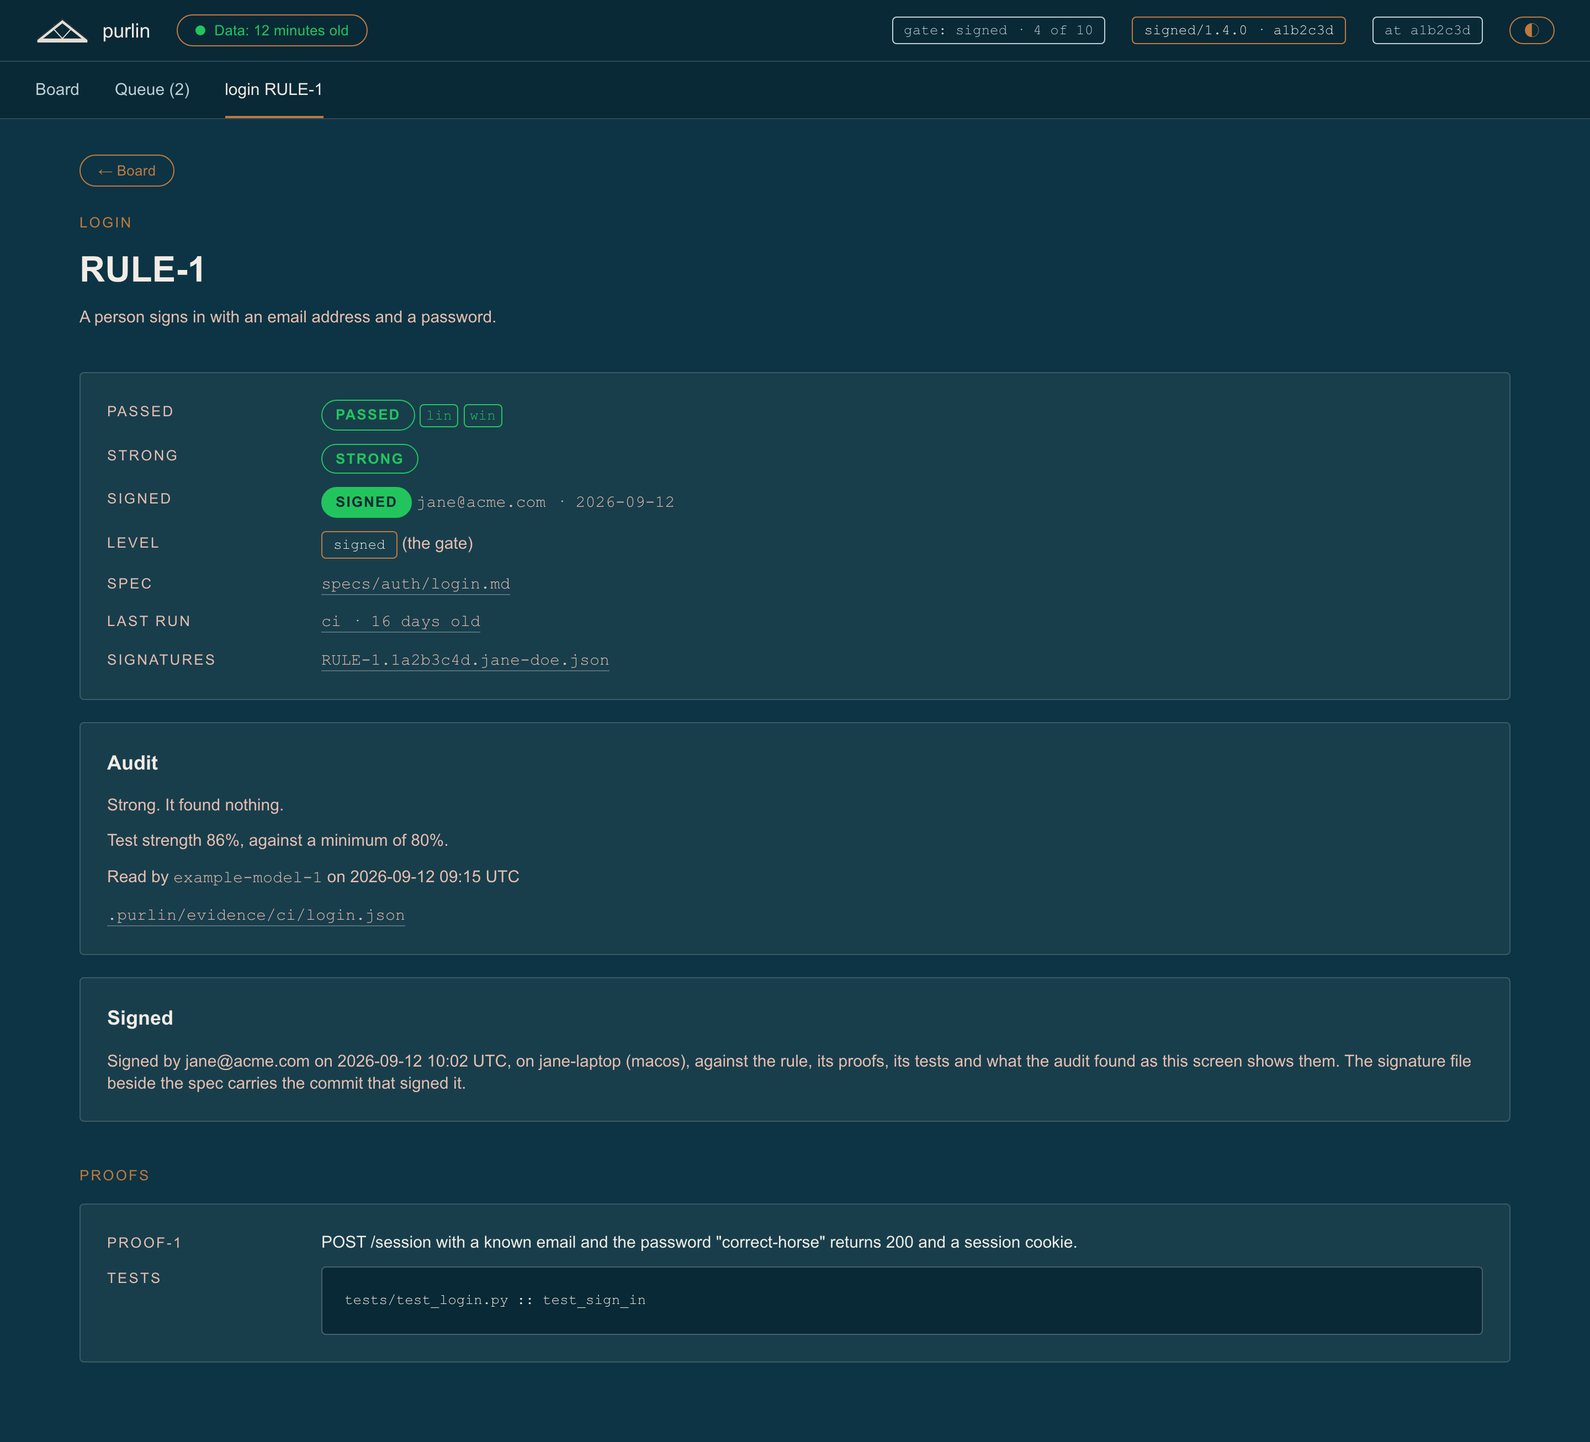
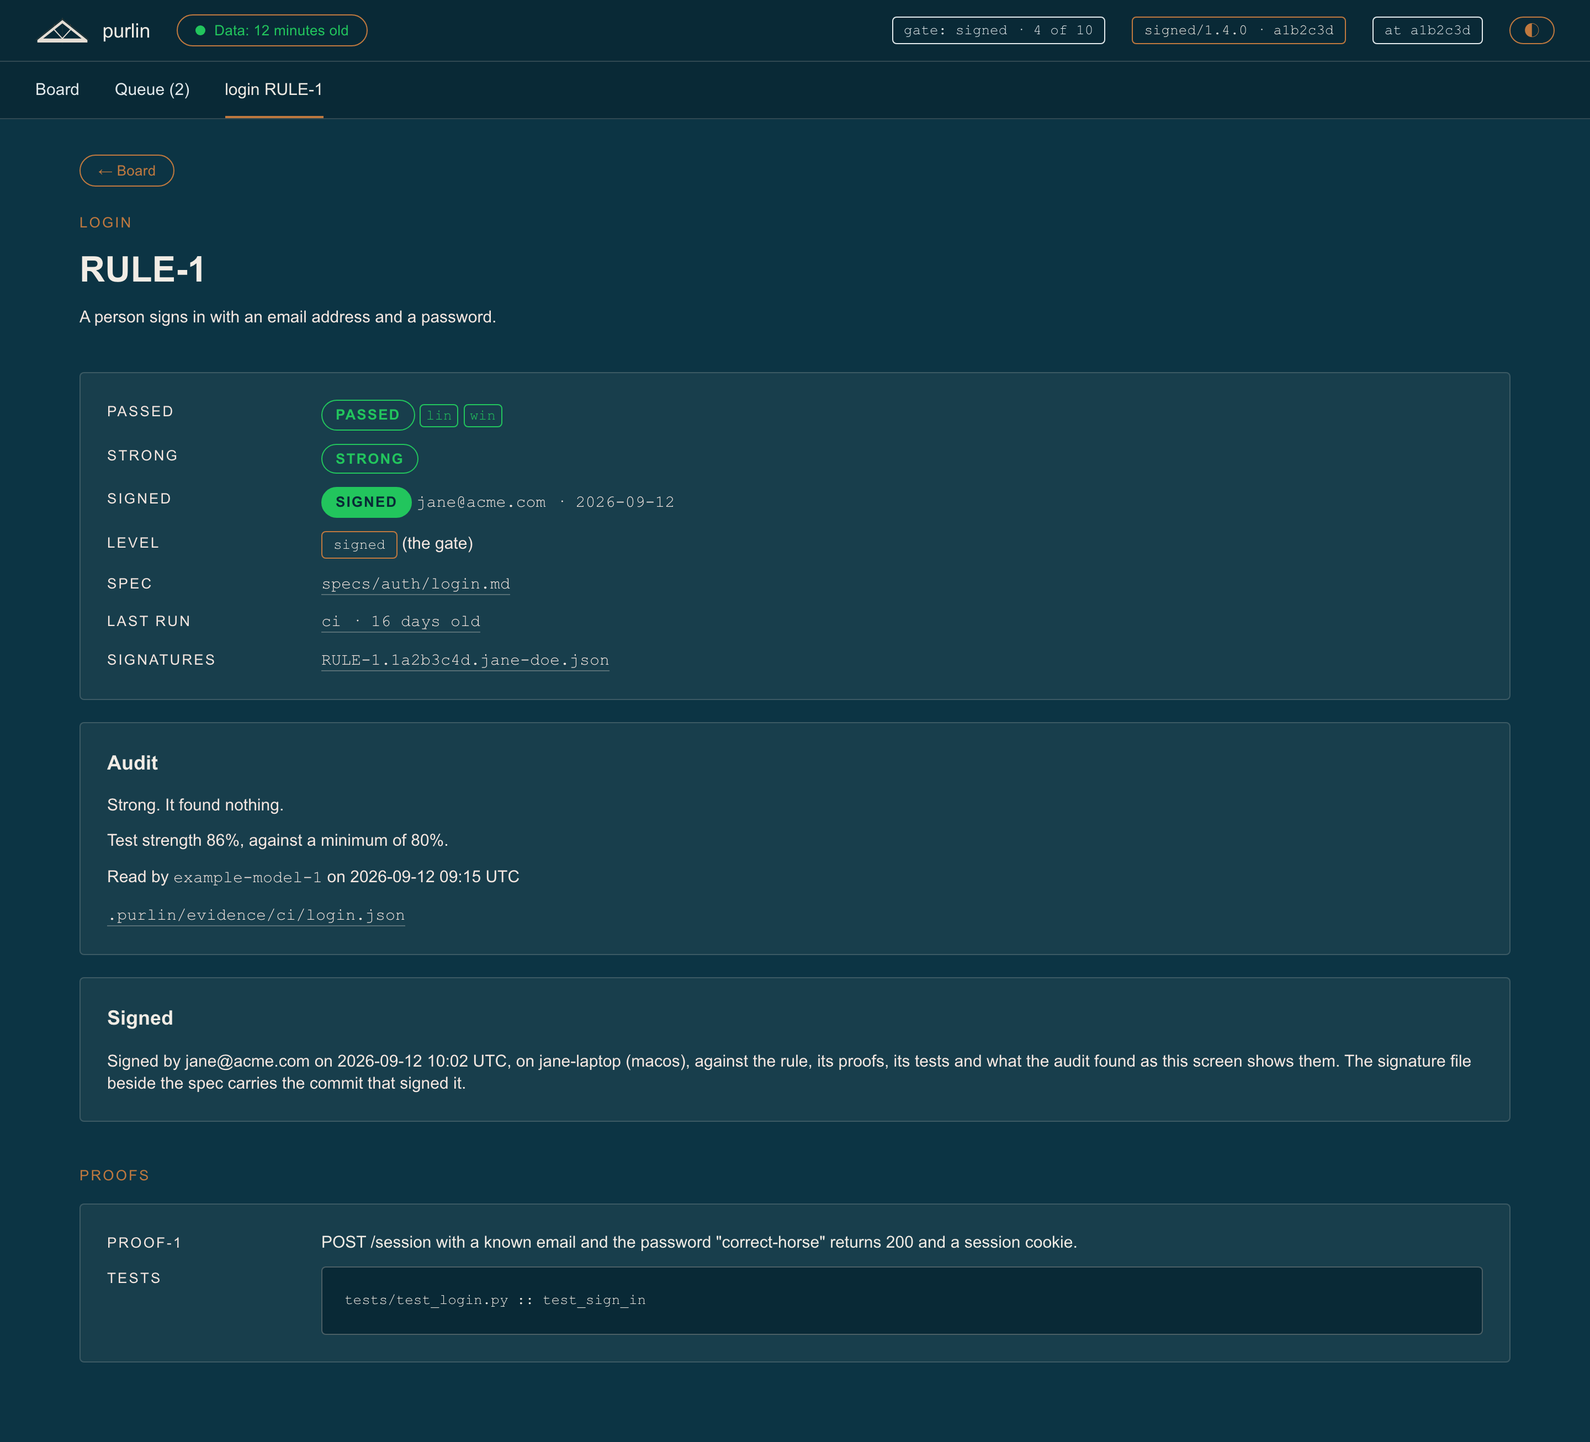
fix(design): neutral text measures 7:1 on every ground, in both themes
Dark: secondary blush-200 to blush-100 #F6E8E2, muted slate-200 to
slate-100 #E2E9EC, idle slate-400 to #E1E5EB, the link with the secondary
ink, the product ramp's muted slate-400 to #BBC4D2. Light: muted and idle
ink-500 (and the product ramp's ink-600) to ink-650 #3B4F56. A page test
reads every neutral text and its composited ground in both themes and
asserts 7:1. The design readme states the floor. Screenshots retaken.

Claude-Session: https://claude.ai/code/session_01EY16JPT1BcH9yMJU9cYMBw

Changed region(s): [[0.0625, 0.5582, 0.1875, 0.5892]]

diff --git a/scripts/report/purlin-report.html b/scripts/report/purlin-report.html
@@ -5,9 +5,9 @@
 <meta name="viewport" content="width=device-width, initial-scale=1">
 <title>Purlin board</title>
 <style id="purlin-tokens">
-:root{--purlin-navy-900:#092936;--purlin-navy-800:#0C3444;--purlin-cream-100:#E4DDD4;--purlin-blush-200:#E6BEB0;--purlin-copper-500:#C0793F;--purlin-slate-300:#93AEB8;--purlin-slate-200:#BFCED5;--purlin-cream-050:#F1ECE5;--slate-950:#0F172A;--slate-900:#172034;--slate-800:#1E293C;--slate-750:#263350;--slate-700:#334155;--slate-500:#64738B;--slate-400:#94A2B8;--slate-300:#CBD5E1;--slate-200:#E2E8F0;--white:#FFFFFF;--green-500:#22C55D;--green-600:#269655;--green-300:#3AC968;--green-100:#C6EDCF;--amber-500:#F59E0C;--red-500:#EF4444;--teal-400:#2DD4BF;--green-700:#15803D;--amber-700:#B45309;--red-700:#B91C1C;--teal-700:#0F766E;--copper-700:#8F5626;--purlin-paper-050:#FBF8EC;--purlin-paper-100:#F4EFDF;--purlin-paper-200:#E4DDD4;--purlin-paper-300:#D3C9BC;--purlin-ink-700:#1B4A5C;--purlin-ink-600:#345865;--purlin-ink-500:#4D676F;}
-:root{--color-scheme:dark;--canvas:var(--purlin-navy-800);--canvas-deep:var(--purlin-navy-900);--surface-1:rgba(228,221,212,.06);--surface-2:rgba(228,221,212,.10);--surface-sunken:var(--purlin-navy-900);--surface-veil:rgba(228,221,212,.30);--text-primary:var(--purlin-cream-050);--text-secondary:var(--purlin-blush-200);--text-muted:var(--purlin-slate-200);--text-accent:var(--purlin-copper-500);--text-inverse:var(--purlin-navy-900);--border-hairline:rgba(228,221,212,.18);--border-default:rgba(228,221,212,.30);--border-strong:rgba(228,221,212,.45);--border-accent:var(--purlin-copper-500);--accent:var(--purlin-copper-500);--accent-contrast:var(--purlin-navy-900);--state-pass:var(--green-500);--state-pass-soft:rgba(34,197,93,.14);--state-warn:var(--amber-500);--state-warn-soft:rgba(245,158,12,.14);--state-fail:var(--red-500);--state-fail-soft:rgba(239,68,68,.14);--state-neutral:var(--teal-400);--state-neutral-soft:rgba(45,212,191,.14);--state-idle:var(--slate-400);--focus-ring:var(--purlin-blush-200);--link:var(--purlin-blush-200);--link-hover:var(--purlin-copper-500);}
-[data-theme="light"]{--color-scheme:light;--canvas:var(--purlin-paper-050);--canvas-deep:var(--purlin-paper-100);--surface-1:var(--white);--surface-2:var(--purlin-paper-100);--surface-sunken:var(--purlin-paper-200);--surface-veil:rgba(12,52,68,.05);--text-primary:var(--purlin-navy-800);--text-secondary:var(--purlin-ink-700);--text-muted:var(--purlin-ink-500);--text-accent:var(--copper-700);--text-inverse:var(--purlin-paper-050);--border-hairline:rgba(12,52,68,.12);--border-default:rgba(12,52,68,.20);--border-strong:rgba(12,52,68,.38);--border-accent:var(--copper-700);--accent:var(--copper-700);--accent-contrast:var(--purlin-paper-050);--state-pass:var(--green-700);--state-pass-soft:rgba(21,128,61,.12);--state-warn:var(--amber-700);--state-warn-soft:rgba(180,83,9,.12);--state-fail:var(--red-700);--state-fail-soft:rgba(185,28,28,.12);--state-neutral:var(--teal-700);--state-neutral-soft:rgba(15,118,110,.12);--state-idle:var(--purlin-ink-500);--focus-ring:var(--copper-700);--link:var(--copper-700);--link-hover:var(--purlin-navy-800);}
+:root{--purlin-navy-900:#092936;--purlin-navy-800:#0C3444;--purlin-cream-100:#E4DDD4;--purlin-blush-200:#E6BEB0;--purlin-copper-500:#C0793F;--purlin-slate-300:#93AEB8;--purlin-slate-200:#BFCED5;--purlin-cream-050:#F1ECE5;--purlin-blush-100:#F6E8E2;--purlin-slate-100:#E2E9EC;--slate-950:#0F172A;--slate-900:#172034;--slate-800:#1E293C;--slate-750:#263350;--slate-700:#334155;--slate-500:#64738B;--slate-400:#94A2B8;--slate-350:#BBC4D2;--slate-300:#CBD5E1;--slate-200:#E2E8F0;--slate-100:#E1E5EB;--white:#FFFFFF;--green-500:#22C55D;--green-600:#269655;--green-300:#3AC968;--green-100:#C6EDCF;--amber-500:#F59E0C;--red-500:#EF4444;--teal-400:#2DD4BF;--green-700:#15803D;--amber-700:#B45309;--red-700:#B91C1C;--teal-700:#0F766E;--copper-700:#8F5626;--purlin-paper-050:#FBF8EC;--purlin-paper-100:#F4EFDF;--purlin-paper-200:#E4DDD4;--purlin-paper-300:#D3C9BC;--purlin-ink-700:#1B4A5C;--purlin-ink-600:#345865;--purlin-ink-500:#4D676F;--purlin-ink-650:#3B4F56;}
+:root{--color-scheme:dark;--canvas:var(--purlin-navy-800);--canvas-deep:var(--purlin-navy-900);--surface-1:rgba(228,221,212,.06);--surface-2:rgba(228,221,212,.10);--surface-sunken:var(--purlin-navy-900);--surface-veil:rgba(228,221,212,.30);--text-primary:var(--purlin-cream-050);--text-secondary:var(--purlin-blush-100);--text-muted:var(--purlin-slate-100);--text-accent:var(--purlin-copper-500);--text-inverse:var(--purlin-navy-900);--border-hairline:rgba(228,221,212,.18);--border-default:rgba(228,221,212,.30);--border-strong:rgba(228,221,212,.45);--border-accent:var(--purlin-copper-500);--accent:var(--purlin-copper-500);--accent-contrast:var(--purlin-navy-900);--state-pass:var(--green-500);--state-pass-soft:rgba(34,197,93,.14);--state-warn:var(--amber-500);--state-warn-soft:rgba(245,158,12,.14);--state-fail:var(--red-500);--state-fail-soft:rgba(239,68,68,.14);--state-neutral:var(--teal-400);--state-neutral-soft:rgba(45,212,191,.14);--state-idle:var(--slate-100);--focus-ring:var(--purlin-blush-200);--link:var(--purlin-blush-100);--link-hover:var(--purlin-copper-500);}
+[data-theme="light"]{--color-scheme:light;--canvas:var(--purlin-paper-050);--canvas-deep:var(--purlin-paper-100);--surface-1:var(--white);--surface-2:var(--purlin-paper-100);--surface-sunken:var(--purlin-paper-200);--surface-veil:rgba(12,52,68,.05);--text-primary:var(--purlin-navy-800);--text-secondary:var(--purlin-ink-700);--text-muted:var(--purlin-ink-650);--text-accent:var(--copper-700);--text-inverse:var(--purlin-paper-050);--border-hairline:rgba(12,52,68,.12);--border-default:rgba(12,52,68,.20);--border-strong:rgba(12,52,68,.38);--border-accent:var(--copper-700);--accent:var(--copper-700);--accent-contrast:var(--purlin-paper-050);--state-pass:var(--green-700);--state-pass-soft:rgba(21,128,61,.12);--state-warn:var(--amber-700);--state-warn-soft:rgba(180,83,9,.12);--state-fail:var(--red-700);--state-fail-soft:rgba(185,28,28,.12);--state-neutral:var(--teal-700);--state-neutral-soft:rgba(15,118,110,.12);--state-idle:var(--purlin-ink-650);--focus-ring:var(--copper-700);--link:var(--copper-700);--link-hover:var(--purlin-navy-800);}
 :root{--font-sans:Arial,"Helvetica Neue",Helvetica,sans-serif;--font-mono:"Courier New",Courier,monospace;--type-hero:180px;--type-display:98px;--type-title:48px;--type-subtitle:33px;--type-lead:30px;--type-body-lg:22.5px;--type-body:20.25px;--type-body-sm:18px;--type-caption:15.75px;--type-micro:15px;--ui-metric-xl:44px;--ui-metric:32px;--ui-lg:18px;--ui-base:15px;--ui-sm:13px;--ui-xs:11px;--leading-tight:.8;--leading-snug:1.12;--leading-normal:1.35;--leading-relaxed:1.5;--tracking-hero:-.006em;--tracking-normal:0;--tracking-wide:.055em;--tracking-label:.12em;--weight-regular:400;--weight-bold:700;}
 :root{--space-0:0;--space-1:4px;--space-2:8px;--space-3:12px;--space-4:16px;--space-5:20px;--space-6:24px;--space-8:32px;--space-10:40px;--space-12:48px;--space-16:64px;--space-20:80px;--space-24:96px;--slide-w:1920px;--slide-h:1080px;--slide-margin-x:200px;--slide-title-y:230px;--slide-content-w:1672px;--slide-rule-w:1520px;--slide-row-h:105px;--app-bar-h:92px;--app-gutter:12px;--row-h:76px;}
 :root{--radius-none:0;--radius-sm:4px;--radius-md:6px;--radius-pill:999px;--border-width-hairline:1px;--border-width-default:1.5px;--border-width-strong:2px;}

diff --git a/design/tokens/palette.css b/design/tokens/palette.css
@@ -9,6 +9,8 @@
   --purlin-slate-300:#93AEB8;  /* muted mono, list numerals */
   --purlin-slate-200:#BFCED5;  /* muted text on navy, one step brighter for reading */
   --purlin-cream-050:#F1ECE5;  /* primary ink on navy, one step brighter than the logo cream */
+  --purlin-blush-100:#F6E8E2;  /* secondary ink on navy, 7:1 on the lightest band */
+  --purlin-slate-100:#E2E9EC;  /* muted ink on navy, 7:1 on the lightest band */
 
   /* --- Product / dashboard: cool slate --------------------------- */
   --slate-950:#0F172A;
@@ -18,8 +20,10 @@
   --slate-700:#334155;
   --slate-500:#64738B;
   --slate-400:#94A2B8;
+  --slate-350:#BBC4D2;  /* muted ink on the product ramp, 7:1 on slate-750 */
   --slate-300:#CBD5E1;  /* secondary ink on the product ramp */
   --slate-200:#E2E8F0;
+  --slate-100:#E1E5EB;  /* idle ink on navy, 7:1 on the lightest band */
   --white:#FFFFFF;
 
   /* --- State hues (dashboard) ------------------------------------ */
@@ -46,4 +50,5 @@
   --purlin-ink-700:#1B4A5C;
   --purlin-ink-600:#345865;  /* muted ink on paper, one step darker than 500 */
   --purlin-ink-500:#4D676F;  /* navy under the 30% cream veil */
+  --purlin-ink-650:#3B4F56;  /* muted and idle ink on paper, 7:1 on paper-100 */
 }

diff --git a/design/tokens/theme-dark.css b/design/tokens/theme-dark.css
@@ -10,8 +10,8 @@
   --surface-veil:rgba(228,221,212,.30);   /* the deck's full-bleed cream veil */
 
   --text-primary:var(--purlin-cream-050);
-  --text-secondary:var(--purlin-blush-200);
-  --text-muted:var(--purlin-slate-200);
+  --text-secondary:var(--purlin-blush-100);
+  --text-muted:var(--purlin-slate-100);
   --text-accent:var(--purlin-copper-500);
   --text-inverse:var(--purlin-navy-900);
 
@@ -31,10 +31,10 @@
   --state-fail-soft:rgba(239,68,68,.14);
   --state-neutral:var(--teal-400);
   --state-neutral-soft:rgba(45,212,191,.14);
-  --state-idle:var(--slate-400);
+  --state-idle:var(--slate-100);
 
   --focus-ring:var(--purlin-blush-200);
-  --link:var(--purlin-blush-200);
+  --link:var(--purlin-blush-100);
   --link-hover:var(--purlin-copper-500);
 }
 
@@ -47,7 +47,7 @@
   --surface-sunken:var(--slate-900);
   --text-primary:var(--slate-200);
   --text-secondary:var(--slate-300);
-  --text-muted:var(--slate-400);
+  --text-muted:var(--slate-350);
   --border-hairline:var(--slate-700);
   --border-default:var(--slate-700);
   --border-strong:var(--slate-500);

diff --git a/design/tokens/theme-light.css b/design/tokens/theme-light.css
@@ -12,7 +12,7 @@
 
   --text-primary:var(--purlin-navy-800);
   --text-secondary:var(--purlin-ink-700);
-  --text-muted:var(--purlin-ink-500);
+  --text-muted:var(--purlin-ink-650);
   --text-accent:var(--copper-700);
   --text-inverse:var(--purlin-paper-050);
 
@@ -32,7 +32,7 @@
   --state-fail-soft:rgba(185,28,28,.12);
   --state-neutral:var(--teal-700);
   --state-neutral-soft:rgba(15,118,110,.12);
-  --state-idle:var(--purlin-ink-500);
+  --state-idle:var(--purlin-ink-650);
 
   --focus-ring:var(--copper-700);
   --link:var(--copper-700);
@@ -47,7 +47,7 @@
   --surface-sunken:var(--purlin-paper-100);
   --text-primary:var(--purlin-navy-800);
   --text-secondary:var(--purlin-ink-700);
-  --text-muted:var(--purlin-ink-600);
+  --text-muted:var(--purlin-ink-650);
   --border-hairline:var(--purlin-paper-300);
   --border-default:var(--purlin-paper-300);
   --border-strong:var(--purlin-ink-500);

diff --git a/dev/test_purlin_report.py b/dev/test_purlin_report.py
@@ -1357,3 +1357,119 @@ def test_a_rule_with_no_proof_shows_the_tests_marked_with_its_id(
     found = sorted({match.group(0) for text in seen if text
                     for match in HIGHER_WORDS_NO_PROOFS.finditer(text)})
     assert found == [], found
+
+
+# Every element that draws a text node of its own, its colour, the ground under
+# it composited through each translucent background up to the page, and the
+# WCAG contrast ratio of the two. Text in one of the four state colours or the
+# accent, and text on a solid badge filled with a state colour, is left out:
+# its colour is its meaning.
+NEUTRAL_CONTRAST = """() => {
+  function parse(c) {
+    const m = c.match(/rgba?\\(([^)]+)\\)/); if (!m) { return null; }
+    const p = m[1].split(/[ ,\\/]+/).filter(Boolean).map(Number);
+    return [p[0], p[1], p[2], p.length > 3 ? p[3] : 1];
+  }
+  function over(top, under) {
+    return [0, 1, 2].map(i => top[i] * top[3] + under[i] * (1 - top[3]))
+      .concat([1]);
+  }
+  function lum(c) {
+    const f = v => { v /= 255; return v <= 0.03928 ? v / 12.92
+      : Math.pow((v + 0.055) / 1.055, 2.4); };
+    return 0.2126 * f(c[0]) + 0.7152 * f(c[1]) + 0.0722 * f(c[2]);
+  }
+  function ratio(a, b) {
+    const x = lum(a), y = lum(b);
+    return (Math.max(x, y) + 0.05) / (Math.min(x, y) + 0.05);
+  }
+  function ground(el) {
+    const layers = [];
+    for (let n = el; n && n.nodeType === 1; n = n.parentElement) {
+      const c = parse(getComputedStyle(n).backgroundColor);
+      if (c && c[3] > 0) { layers.push(c); if (c[3] >= 1) { break; } }
+    }
+    let base = [255, 255, 255, 1];
+    for (let i = layers.length - 1; i >= 0; i--) { base = over(layers[i], base); }
+    return base;
+  }
+  const root = getComputedStyle(document.documentElement);
+  const probe = document.createElement('span');
+  document.body.appendChild(probe);
+  const resolve = name => { probe.style.color = root.getPropertyValue(name).trim();
+    return getComputedStyle(probe).color; };
+  const states = new Set(['--state-pass', '--state-warn', '--state-fail',
+    '--state-neutral'].map(resolve));
+  const coloured = new Set([...states, resolve('--accent'),
+    resolve('--text-accent')]);
+  probe.remove();
+  const out = [];
+  const seen = new Set();
+  const walker = document.createTreeWalker(document.body, NodeFilter.SHOW_TEXT);
+  while (walker.nextNode()) {
+    const node = walker.currentNode;
+    if (!node.textContent.trim()) { continue; }
+    const el = node.parentElement;
+    if (seen.has(el)) { continue; }
+    seen.add(el);
+    const box = el.getBoundingClientRect();
+    const style = getComputedStyle(el);
+    if (!box.width || !box.height || style.visibility === 'hidden') { continue; }
+    if (coloured.has(style.color)) { continue; }
+    const under = ground(el);
+    const fill = 'rgb(' + under.slice(0, 3).map(Math.round).join(', ') + ')';
+    if (states.has(fill)) { continue; }
+    let ink = parse(style.color);
+    if (ink[3] < 1) { ink = over(ink, under); }
+    out.push([node.textContent.trim().slice(0, 40), style.color, fill,
+              ratio(ink, under)]);
+  }
+  return out;
+}"""
+
+
+def neutral_text(page):
+    """`[(text, colour, ground, ratio)]` for every neutral text on screen."""
+    return page.evaluate(NEUTRAL_CONTRAST)
+
+
+def open_in_theme(browser, tmp_path, payload, theme):
+    page = open_board(browser, tmp_path, payload)
+    page.evaluate("t => { localStorage.setItem('purlin-theme', t); }", theme)
+    page.reload()
+    page.wait_for_selector('.topbar', timeout=10000)
+    assert page.get_attribute('html', 'data-theme') == theme
+    return page
+
+
+# purlin: purlin_report PROOF-66
+def test_neutral_text_measures_7_to_1_in_both_themes(browser, tmp_path):
+    checked = 0
+    for process in PROCESSES:
+        payload = payload_named(process)
+        for theme in ('dark', 'light'):
+            for screen in ('board', 'queue', 'rule'):
+                page = open_in_theme(browser, tmp_path / process, payload,
+                                     theme)
+                if screen == 'queue':
+                    if page.query_selector('[data-screen="queue"]') is None:
+                        page.close()
+                        continue
+                    page.click('[data-screen="queue"]')
+                elif screen == 'rule':
+                    page.click('.tr')
+                    page.click('.rule')
+                    page.wait_for_selector('h1', timeout=10000)
+                found = neutral_text(page)
+                low = [item for item in found if item[3] < 7]
+                assert low == [], (process, theme, screen, low)
+                checked += len(found)
+                page.close()
+    assert checked > 100, checked
+
+    page = open_in_theme(browser, tmp_path / 'old', payload_named('team'),
+                         'dark')
+    page.evaluate("document.documentElement.style.setProperty("
+                  "'--state-idle', '#94A2B8')")
+    assert [item for item in neutral_text(page) if item[3] < 7]
+    page.close()

diff --git a/specs/dashboard/purlin_report.md b/specs/dashboard/purlin_report.md
@@ -57,6 +57,7 @@
 - RULE-42: Nothing writes the data file in the background: an edit to a spec or to code made with no Purlin command leaves the file's bytes and its modification time as they were, and a directory with no Purlin settings file gets no data file at all [level: passed]
 - RULE-43: A spec that names no files reads `<name> · no scope` on the board at every gate, and the hover on `no scope` gives the reason the payload carries [level: passed]
 - RULE-44: At the gate `passed` no text the page shows, in any tab, tile, column, filter, hover, empty state or rule screen, uses a word of a higher level: none of `strong`, `signed`, `audit`, `queue`, `signature`, `level` and `hand check` appears at any casing, nor `proof` where the project writes no proof line, and a rule shows its text, its tests and one status out of `passed`, `failed`, `partial`, `no test`, `not run` and `out of date` [level: passed]
+- RULE-45: In both themes, on the board, the queue and a rule screen, every text the page draws in a neutral colour, any colour but the four state colours and the accent, measures at least 7:1 by the WCAG contrast formula against the ground it sits on, read through every translucent layer beneath it; text on a solid badge filled with a state colour is the badge's and is not held to it [level: passed]
 
 ## Proof
 
@@ -119,3 +120,4 @@
 - PROOF-63 (RULE-44): Open the board with the solo fixture, whose gate is `passed`, once as it is and once with login `RULE-1` set in turn to `failed`, `partial`, `not run` and `out of date`; each time press every filter, open every spec and every rule, and switch the theme; verify that across every text on screen and every hover, 0 contain `strong`, `signed`, `audit`, `queue`, `signature`, `level` or `hand check` at any casing, and that every rule's status reads one of `passed`, `failed`, `partial`, `no test`, `not run` and `out of date`. Take every proof line out of the project, each test marked with its rule's own id, and do the same five times; verify the same, and that 0 contain `proof` either
 - PROOF-64 (RULE-15): Open the solo fixture and open login `RULE-3`, which has no proof; verify its passed row reads `NO TEST` with `no proof written` and its proofs read `No proof written.`. Open the regulated fixture and open export `RULE-1`, whose code changed after its run; verify its passed row reads `OUT OF DATE` with `code changed since 9f8e7d6`
 - PROOF-65 (RULE-44): In a new project at the gate `passed` with one rule, no proof line and one test marked with the rule's own id, run the tests and open the rule; verify the dashboard data lists that one test by its file and name with the result `pass`, the rule's screen lists it under Tests as `tests/test_lock.py :: test_five_wrong_passwords_lock PASSED`, and 0 texts on the screen contain `proof` or a word of a higher level. Make the test fail and do the same; verify the data reads `fail` and the screen `FAILED`
+- PROOF-66 (RULE-45): Open the solo, team and regulated fixtures in the dark theme and then the light theme, on the board, the queue where the gate has one and the rule screen of the first rule; read the colour of every element that draws text and the ground under it, composited through each translucent background up to the page, and verify every neutral one measures at least 7:1. With the dark theme's idle colour set back to `#94A2B8`, the same check names at least one text under 7:1

diff --git a/design/readme.md b/design/readme.md
@@ -63,6 +63,9 @@ Both themes ship. The light theme is extrapolated from the warm half: paper grou
 `#D3C9BC` from the cream, navy ink, copper darkened to `#8F5626` for contrast, and the four state
 hues dropped to their 700 steps so they clear 4.5:1 on paper.
 
+Every neutral text token, in both themes, measures at least 7:1 by the WCAG contrast formula
+against every ground it is drawn on.
+
 ## Icons
 
 Purlin ships no icon set. The interface uses the unicode glyphs `▶ ▼ ▲ →`, which inherit
